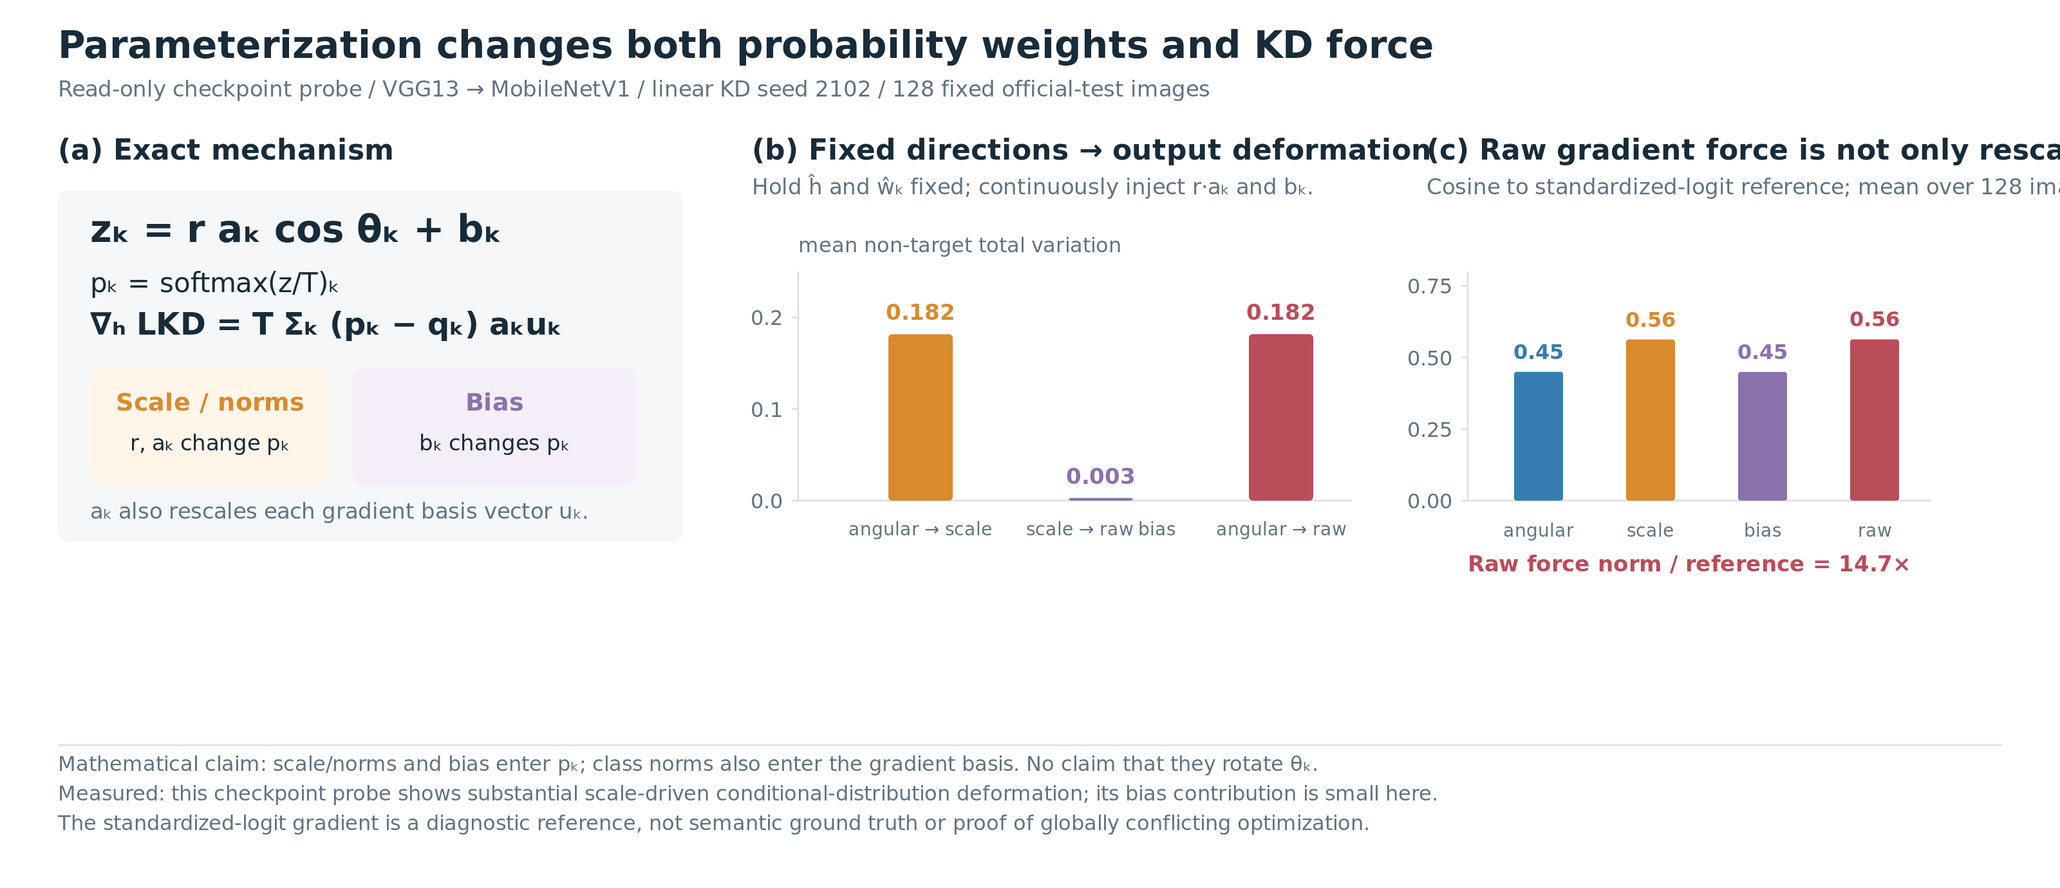
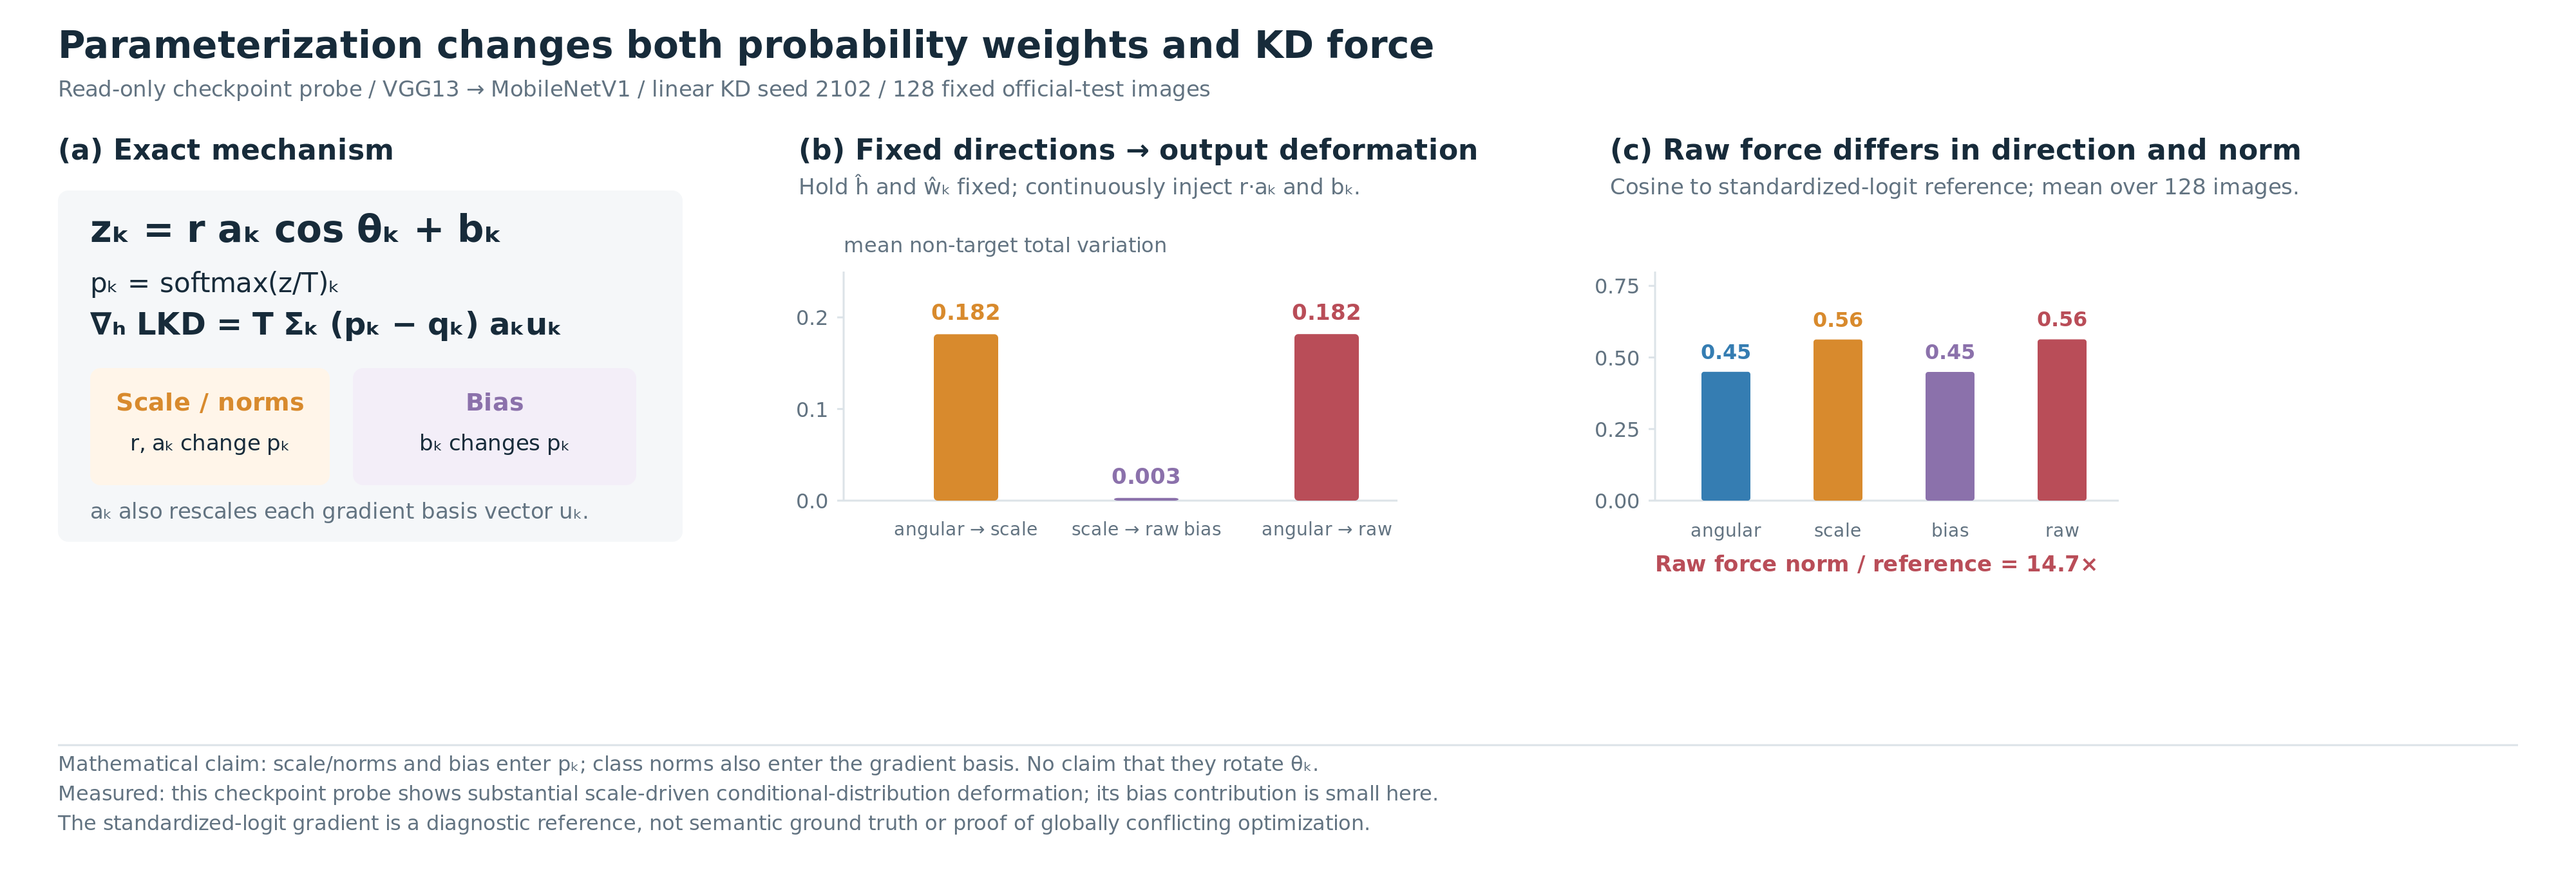
Embed verified supplementary diagnostics

diff --git a/research_archive/figures/render_parameterization_mechanism.py b/research_archive/figures/render_parameterization_mechanism.py
@@ -9,14 +9,14 @@ HERE=Path(__file__).resolve().parent; OUT=HERE/'mechanism_figures'; DATA=OUT/'pa
 INK,MUTED,LINE='#172B3A','#627381','#DCE3E8'; ORANGE,BLUE,GREEN,RED,PURPLE='#D88A2D','#357DB2','#23856D','#B94D58','#8B71AB'
 class S:
  def __init__(self,title,subtitle,h=690):
-  self.h=h;self.a=[f'<svg xmlns="http://www.w3.org/2000/svg" width="1600" height="{h}" viewBox="0 0 1600 {h}" role="img">',f'<title>{escape(title)}</title><desc>{escape(subtitle)}</desc>','<defs><marker id="arrow" viewBox="0 0 10 10" refX="9" refY="5" markerWidth="7" markerHeight="7" orient="auto"><path d="M0,0 L10,5 L0,10z" fill="#627381"/></marker></defs>','<rect width="1600" height="100%" fill="white"/>'];self.t(45,45,title,29,INK,700);self.t(45,75,subtitle,17,MUTED)
+  self.h=h;self.a=[f'<svg xmlns="http://www.w3.org/2000/svg" width="2000" height="{h}" viewBox="0 0 2000 {h}" role="img">',f'<title>{escape(title)}</title><desc>{escape(subtitle)}</desc>','<defs><marker id="arrow" viewBox="0 0 10 10" refX="9" refY="5" markerWidth="7" markerHeight="7" orient="auto"><path d="M0,0 L10,5 L0,10z" fill="#627381"/></marker></defs>','<rect width="2000" height="100%" fill="white"/>'];self.t(45,45,title,29,INK,700);self.t(45,75,subtitle,17,MUTED)
  def t(self,x,y,v,sz=19,c=INK,w=400,a='start'):self.a.append(f'<text x="{x}" y="{y}" font-family="DejaVu Sans, sans-serif" font-size="{sz}" font-weight="{w}" text-anchor="{a}" fill="{c}">{escape(str(v))}</text>')
  def rect(self,x,y,w,h,fill='white',stroke='none',r=8):self.a.append(f'<rect x="{x}" y="{y}" width="{w}" height="{h}" rx="{r}" fill="{fill}" stroke="{stroke}"/>')
  def line(self,x1,y1,x2,y2,c=LINE,w=1.5,dash=False,arrow=False):self.a.append(f'<line x1="{x1}" y1="{y1}" x2="{x2}" y2="{y2}" stroke="{c}" stroke-width="{w}"'+(' stroke-dasharray="6 5"' if dash else '')+(' marker-end="url(#arrow)"' if arrow else '')+'/>')
  def path(self,pts,c=BLUE,w=2,dash=False):self.a.append('<path d="M '+' L '.join(f'{x:.2f} {y:.2f}' for x,y in pts)+f'" fill="none" stroke="{c}" stroke-width="{w}"'+(' stroke-dasharray="6 5"' if dash else '')+'/>')
  def circ(self,x,y,r,c):self.a.append(f'<circle cx="{x}" cy="{y}" r="{r}" fill="{c}"/>')
  def footer(self,lines):
-  y=self.h-45-23*(len(lines)-1);self.line(45,y-20,1555,y-20)
+  y=self.h-45-23*(len(lines)-1);self.line(45,y-20,1955,y-20)
   for i,v in enumerate(lines):self.t(45,y+23*i,v,16,MUTED)
  def save(self,name):
   p=OUT/(name+'.svg');v='\n'.join(self.a+['</svg>'])+'\n';ET.fromstring(v);p.write_text(v);return p
@@ -27,8 +27,8 @@ def force(d):
  s.rect(70,286,186,91,'#FFF5E9');s.rect(274,286,220,91,'#F3EEF8')
  s.t(163,319,'Scale / norms',19,ORANGE,700,'middle');s.t(163,350,'r, aₖ change pₖ',17,INK,400,'middle');s.t(384,319,'Bias',19,PURPLE,700,'middle');s.t(384,350,'bₖ changes pₖ',17,INK,400,'middle')
  s.t(70,403,'aₖ also rescales each gradient basis vector uₖ.',17,MUTED)
- s.t(584,124,'(b) Fixed directions → output deformation',22,INK,700);s.t(584,151,'Hold ĥ and ŵₖ fixed; continuously inject r·aₖ and bₖ.',17,MUTED)
- x0,y0,w,h=620,389,430,178
+ s.t(620,124,'(b) Fixed directions → output deformation',22,INK,700);s.t(620,151,'Hold ĥ and ŵₖ fixed; continuously inject r·aₖ and bₖ.',17,MUTED)
+ x0,y0,w,h=655,389,430,178
  s.line(x0,y0-h,x0,y0);s.line(x0,y0,x0+w,y0)
  for v in (0,.1,.2):
   y=y0-v/.25*h;s.line(x0-5,y,x0,y);s.t(x0-12,y+6,f'{v:.1f}',16,MUTED,400,'end')
@@ -36,14 +36,14 @@ def force(d):
  bars=[('angular → scale',d['distribution_deformation']['angular_to_scale_tv'],ORANGE),('scale → raw bias',d['distribution_deformation']['scale_to_raw_bias_tv'],PURPLE),('angular → raw',d['distribution_deformation']['angular_to_raw_tv'],RED)]
  for i,(lab,v,c) in enumerate(bars):
   x=x0+95+i*140;bh=v/.25*h;s.rect(x-25,y0-bh,50,bh,c,r=3);s.t(x,y0-bh-11,f'{v:.3f}',17,c,700,'middle');s.t(x,y0+27,lab,14,MUTED,400,'middle')
- s.t(1108,124,'(c) Raw gradient force is not only rescaled',22,INK,700);s.t(1108,151,'Cosine to standardized-logit reference; mean over 128 images.',17,MUTED)
- x0,y0,w=1140,389,360;s.line(x0,y0-178,x0,y0);s.line(x0,y0,x0+w,y0)
+ s.t(1250,124,'(c) Raw force differs in direction and norm',22,INK,700);s.t(1250,151,'Cosine to standardized-logit reference; mean over 128 images.',17,MUTED)
+ x0,y0,w=1285,389,360;s.line(x0,y0-178,x0,y0);s.line(x0,y0,x0+w,y0)
  for v in (0,.25,.5,.75):
   y=y0-v/.8*178;s.line(x0-5,y,x0,y);s.t(x0-12,y+6,f'{v:.2f}',16,MUTED,400,'end')
  for i,key in enumerate(['angular','scale_only','bias_only','raw']):
   v=d['gradient_statistics'][key]['mean_cosine_to_standardized_reference'];x=x0+55+i*87;bh=v/.8*178;c={'angular':BLUE,'scale_only':ORANGE,'bias_only':PURPLE,'raw':RED}[key]
   s.rect(x-19,y0-bh,38,bh,c,r=2);s.t(x,y0-bh-10,f'{v:.2f}',16,c,700,'middle');s.t(x,y0+28,{'angular':'angular','scale_only':'scale','bias_only':'bias','raw':'raw'}[key],14,MUTED,400,'middle')
- s.t(1140,444,'Raw force norm / reference = %.1f×'%d['gradient_statistics']['raw']['mean_norm_ratio_to_reference'],17,RED,700)
+ s.t(1285,444,'Raw force norm / reference = %.1f×'%d['gradient_statistics']['raw']['mean_norm_ratio_to_reference'],17,RED,700)
  s.footer(['Mathematical claim: scale/norms and bias enter pₖ; class norms also enter the gradient basis. No claim that they rotate θₖ.', 'Measured: this checkpoint probe shows substantial scale-driven conditional-distribution deformation; its bias contribution is small here.', 'The standardized-logit gradient is a diagnostic reference, not semantic ground truth or proof of globally conflicting optimization.'])
  return s.save('mechanism_parameterization_force')
 def pull(d):
@@ -68,7 +68,7 @@ def export(svg):
  load=f(r,'rsvg_handle_new_from_file',[C.c_char_p,C.POINTER(P)],P);render=f(r,'rsvg_handle_render_cairo',[P,P],I);png=f(c,'cairo_image_surface_create',[I,I,I],P);pdf=f(c,'cairo_pdf_surface_create',[C.c_char_p,D,D],P);ctx=f(c,'cairo_create',[P],P);scale=f(c,'cairo_scale',[P,D,D],None);write=f(c,'cairo_surface_write_to_png',[P,C.c_char_p],I);destroy=f(c,'cairo_destroy',[P],None);finish=f(c,'cairo_surface_finish',[P],None);free=f(c,'cairo_surface_destroy',[P],None);status=f(c,'cairo_surface_status',[P],I);unref=f(g,'g_object_unref',[P],None)
  err=P();h=load(str(svg).encode(),C.byref(err));height=int(ET.parse(svg).getroot().attrib['height'])
  for ext,k in [('png',2.),('pdf',.315)]:
-  out=svg.with_suffix('.'+ext);surf=png(0,3200,height*2) if ext=='png' else pdf(str(out).encode(),504,height*k);cr=ctx(surf);scale(cr,k,k);assert render(h,cr); 
+  width=int(ET.parse(svg).getroot().attrib['width']);out=svg.with_suffix('.'+ext);surf=png(0,width*2,height*2) if ext=='png' else pdf(str(out).encode(),width*k,height*k);cr=ctx(surf);scale(cr,k,k);assert render(h,cr);
   if ext=='png':assert not write(surf,str(out).encode())
   destroy(cr);finish(surf);assert not status(surf);free(surf)
  unref(h)

diff --git a/supplementary/supplementary.tex b/supplementary/supplementary.tex
@@ -3,7 +3,7 @@
 \usepackage[margin=1in]{geometry}
 \usepackage{amsmath,amssymb,booktabs}
 \usepackage[hidelinks]{hyperref}
-% \usepackage{graphicx} % Enable after uploading selected PDFs to Overleaf.
+\usepackage{graphicx}
 \newcommand{\ACI}{\mathrm{ACI}}
 \newcommand{\SICD}{\mathrm{SICD}}
 \newcommand{\KL}{\mathrm{KL}}
@@ -109,13 +109,23 @@ The scalar is an oracle diagnostic that accesses teacher logits and is never use
 
 On the complete CIFAR-100 test set for the archived linear checkpoint (seed 2051, epoch 240), mean reported divergence changes from 1.2198 before calibration to 0.5575 afterwards; the ratio of means is 45.7\%. The calculation uses the same fixed teacher target before and after calibration, has no boundary-$\alpha=0$ solutions, and never increases an individual sample's objective. This demonstrates that per-image scalar rescaling does not fully account for discrepancy at that checkpoint. It does not identify the source of the residual.
 
+\begin{figure}[t]
+\centering
+\includegraphics[width=\linewidth]{../research_archive/figures/analysis_20261116/fig_output_mismatch_cifar100_seed2051.pdf}
+\caption{Output mismatch beyond scalar confidence. For a frozen CIFAR-100 endpoint (ResNet32$\times$4 teacher, ResNet8$\times$4 student, linear KD, seed 2051, epoch 240), independent per-image nonnegative logit scaling reduces mean $8D_{\mathrm{KL}}$ at $T=4$ from 1.2198 to 0.5575. The score-density panel retains all 1,000,000 image--class pairs after centering each logit vector; centering removes a softmax-invariant shift and does not standardize scores. This oracle diagnostic uses teacher outputs and is not a training or deployment procedure.}
+\label{fig:supp-oracle}
+\end{figure}
+
 \subsection{Suggested supplementary figure set}
-The final selection should favor figures whose data and caption limits are recorded in the repository: (i) the oracle-calibration ECDF and paired-density panels, (ii) the fixed-direction parameterization/distribution/gradient diagnostic, and (iii) the matched seven-arm table. The Grad-CAM asset in the archive compares CE and KD baselines, so it requires that label and belongs only in a diagnostic supplement. Figure captions should state checkpoint identity, data split, and whether the visual is a fixed-state diagnostic or an end-to-end endpoint.
+Figure~\ref{fig:supp-force} gives a complementary fixed-checkpoint diagnostic. It separates the exact dependence of a raw KD gradient on score parameterization from its empirical measurement on one VGG13-to-MobileNetV1 checkpoint. The Grad-CAM asset in the archive compares CE and KD baselines, so it requires that label and belongs only in a diagnostic supplement. Figure captions should state checkpoint identity, data split, and whether the visual is a fixed-state diagnostic or an end-to-end endpoint.
+
+\begin{figure}[t]
+\centering
+\includegraphics[width=\linewidth]{../research_archive/figures/mechanism_figures/mechanism_parameterization_force.pdf}
+\caption{Fixed-state parameterization diagnostic. Panel (a) shows that feature magnitude, class norms, and biases enter the KD gradient through probabilities, while class norms also rescale the gradient basis. Panels (b--c) use a read-only VGG13$\rightarrow$MobileNetV1 linear-KD checkpoint (seed 2102) and 128 fixed official CIFAR-100 test images: fixing feature and class directions while restoring scale/norm and bias terms changes the non-target conditional distribution and the local feature-gradient direction and norm. The standardized-logit gradient is a diagnostic reference; this is neither an end-to-end training comparison nor evidence of universal optimization behavior.}
+\label{fig:supp-force}
+\end{figure}
 
 No verified new ImageNet or detection endpoint is included. Strict ETF requires $d\ge C-1$; low-dimensional CIFAR students require a shared feature lift for ETF controls and must be labeled as lifted architectures. Gradient-norm matching adds an autograd computation during training, so unchanged inference structure does not imply equal training cost. Future multi-seed tables should report individual endpoints, configurations, seed, selection rule, sample count, and checkpoint hash.
 
-% Enable only after the final paper figure selection:
-% \begin{figure}[t]\centering
-% \includegraphics[width=\linewidth]{method.pdf}
-% \caption{ACI and SICD schematic; verify ETF wording before use.}\end{figure}
 \end{document}

diff --git a/supplementary/ASSETS.md b/supplementary/ASSETS.md
@@ -9,7 +9,7 @@ extra mechanism detail.
 | ID | Overleaf upload source | Intended role | Supported caption claim |
 | --- | --- | --- | --- |
 | S1 | `../research_archive/figures/analysis_20261116/fig_output_mismatch_cifar100_seed2051.pdf` | Oracle scalar-calibration diagnostic | Per-image nonnegative scalar calibration reduces mean `8 KL` at `T=4` from 1.2198 to 0.5575 for one frozen CIFAR-100 endpoint, but leaves residual class-relative disagreement. |
-| S2 | `../research_archive/figures/mechanism_figures/mechanism_parameterization_force.pdf` | Fixed-state parameterization diagnostic | With directions and input fixed, score parameterization changes non-target distributions and the local KD feature gradient in the recorded checkpoint probe. |
+| S2 | `../research_archive/figures/mechanism_figures/mechanism_parameterization_force.pdf` | Fixed-state parameterization diagnostic | With directions and input fixed, score parameterization changes non-target distributions and the local KD feature gradient in the recorded checkpoint probe. This PDF was re-rendered with a widened third panel so every title and caption line remains visible. |
 | S3 | `../research_archive/figures/analysis_20261116/fig_parameterization_compact.pdf` | Compact parameterization sensitivity evidence | Controlled score interventions change the output distribution and local loss signal; this is not an end-to-end accuracy experiment. |
 | S4 | `../research_archive/figures/analysis_20261116/fig_supervision_problem_ab.pdf` | Supervision decomposition diagnostic | Use only with its fixed-state scope and source checkpoint stated in the caption. |
 | S5 | `../figs/method.pdf` | Method overview | ACI uses a bias-free cosine head and SICD uses standardized, teacher-mass-weighted conditional distillation. Check ETF wording before use because ETF is optional and is disabled for released reruns. |

diff --git a/supplementary/README.md b/supplementary/README.md
@@ -19,9 +19,9 @@ are not presented as new verified results.
 
 ## Overleaf use
 
-Copy `supplementary.tex` into Overleaf.  It compiles without figures.  To add
-approved figures, upload their PDFs from `../figs/` or `../research_archive/`
-and enable the commented figure blocks.  A standard LaTex installation with
+Copy `supplementary.tex` into Overleaf. Upload the two PDFs listed in
+`ASSETS.md` under the same relative filenames, or update their two
+`\includegraphics` paths after upload. A standard LaTex installation with
 `article`, `amsmath`, `booktabs`, and `hyperref` is sufficient; no bibliography
 file is required.
 
